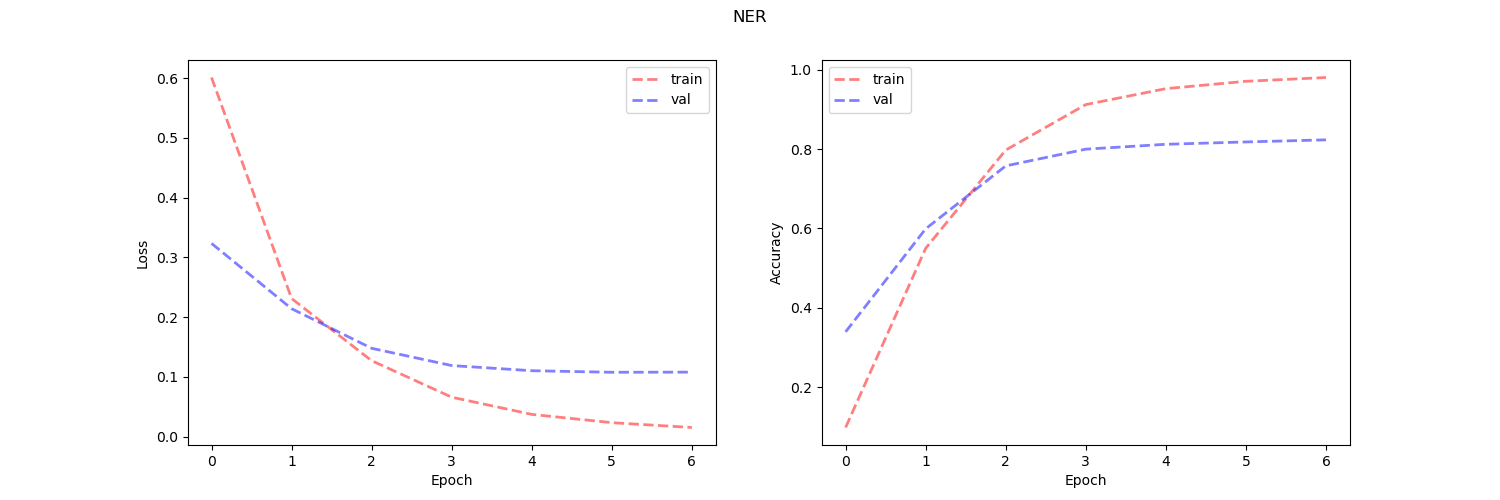
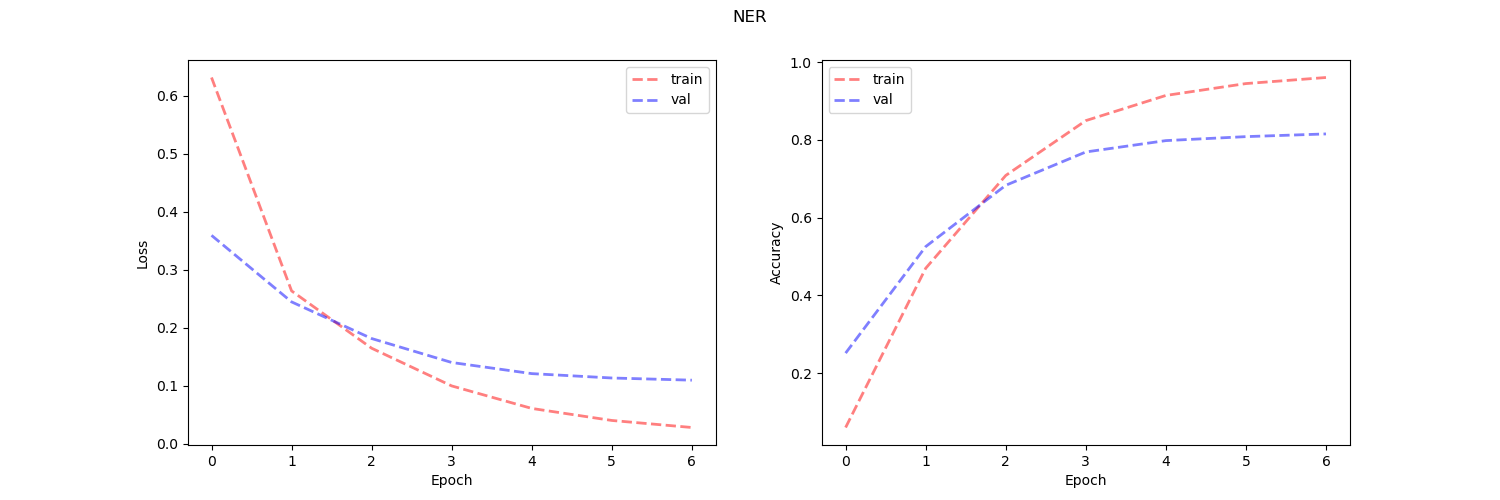
fix graph find good parameters

diff --git a/tagger1.py b/tagger1.py
@@ -216,10 +216,10 @@ train_dataset = Tagging_Dataset(data_to_window(vocab, vocab_labels, train_data))
 dev_dataset = Tagging_Dataset(data_to_window(vocab, vocab_labels, dev_data))
 
 params_dict = { # for debuging i used only one item per and very big batch
-    'hidden_layer': [90],#[170, 90],
-    'dropout_p': [0.5],#[0.5, 0.4],
-    'batch_size': [128],#[512, 128],
-    'lr': [1e-4]#[1e-4, 2e-4]
+    'hidden_layer': [170, 90],
+    'dropout_p': [0.5, 0.4],
+    'batch_size': [128, 64],
+    'lr': [1e-4, 5e-5]
     }
 
 print('searching parameters...\n')
@@ -234,16 +234,16 @@ dev_data_pos = read_data('pos/dev', ' ')
 vocab_pos, vocab_labels_pos = create_vocabs(train_data_pos)
 
 if use_pre_trained:
-    vocab, pre_embedding = use_pretrained('vocab.txt', 'wordVectors.txt')
+    vocab_pos, pre_embedding = use_pretrained('vocab.txt', 'wordVectors.txt')
 
 train_dataset_pos = Tagging_Dataset(data_to_window(vocab_pos, vocab_labels_pos, train_data_pos))
 dev_dataset_pos = Tagging_Dataset(data_to_window(vocab_pos, vocab_labels_pos, dev_data_pos))
 
 pos_params_dict = { # for debuging i used only one item per and very big batch
     'hidden_layer': [170],
-    'dropout_p': [0.4],
+    'dropout_p': [0.2],
     'batch_size': [128],
-    'lr': [1e-4]
+    'lr': [1e-4, 5e-5]
     }
 
 print('searching parameters...\n')

diff --git a/utility.py b/utility.py
@@ -2,7 +2,7 @@ import numpy as np
 from matplotlib import pyplot as plt
 
 
-def read_data(fname, splitter):
+def read_data(fname, splitter,lower=False):
     sentence_list = []
     with open(fname, encoding="utf8") as f:
         lines = f.readlines()
@@ -11,7 +11,7 @@ def read_data(fname, splitter):
     for line in lines:
         if line != '\n':
             text, label = line.strip().split(splitter, 1)  # TODO: check lower
-            # text = text.lower()
+            text = text.lower() if lower else text
             sentence = sentence + text + " "
             labels = labels + label + " "
         else:
